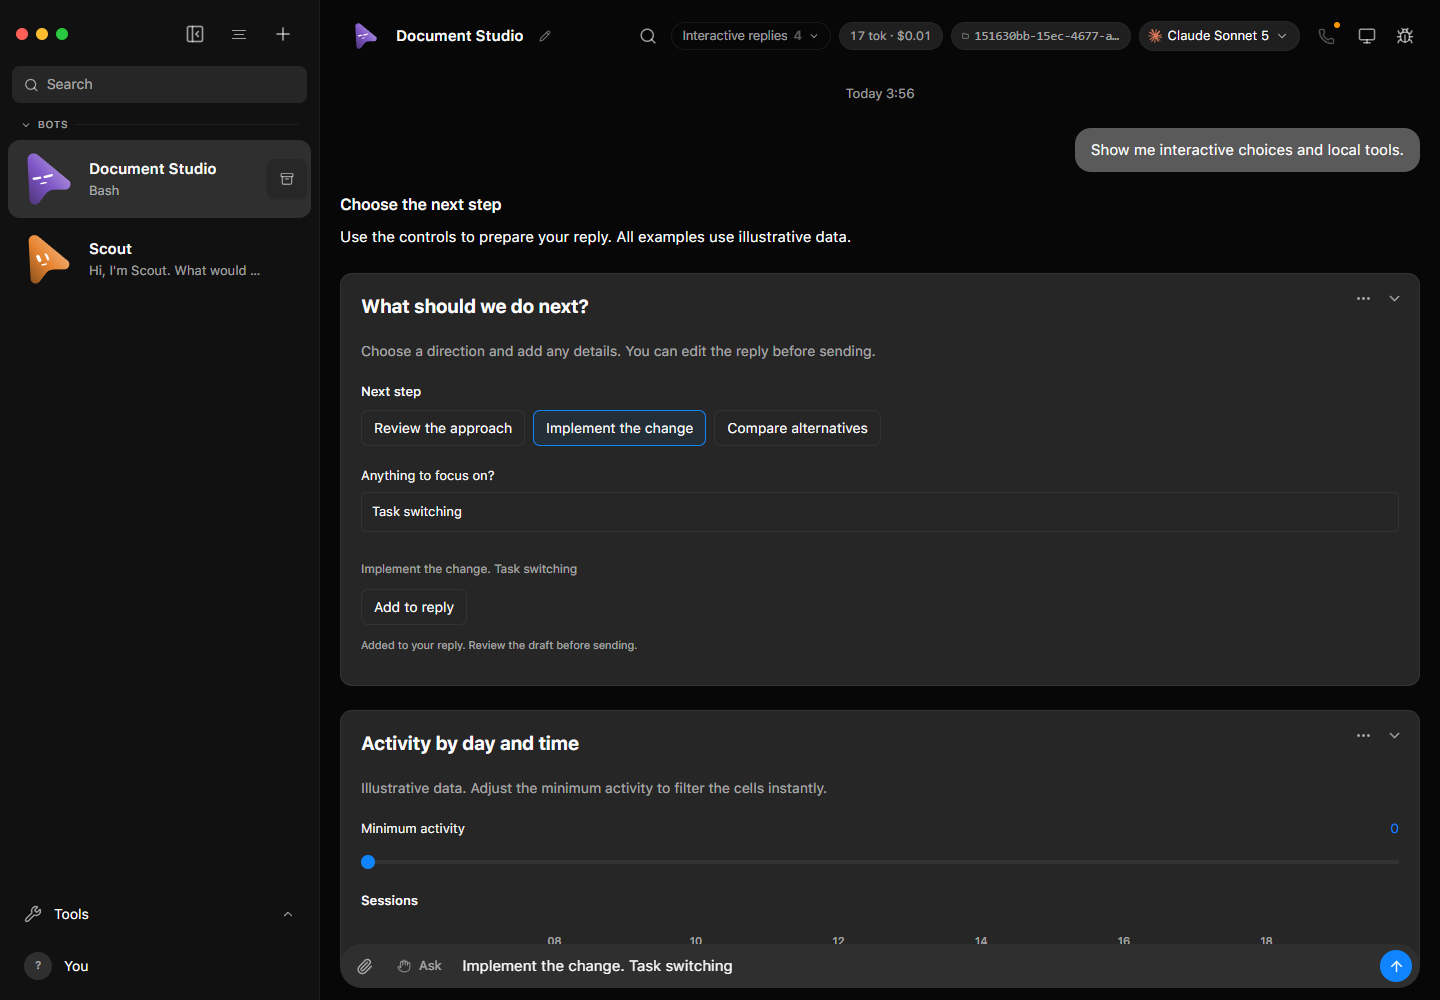
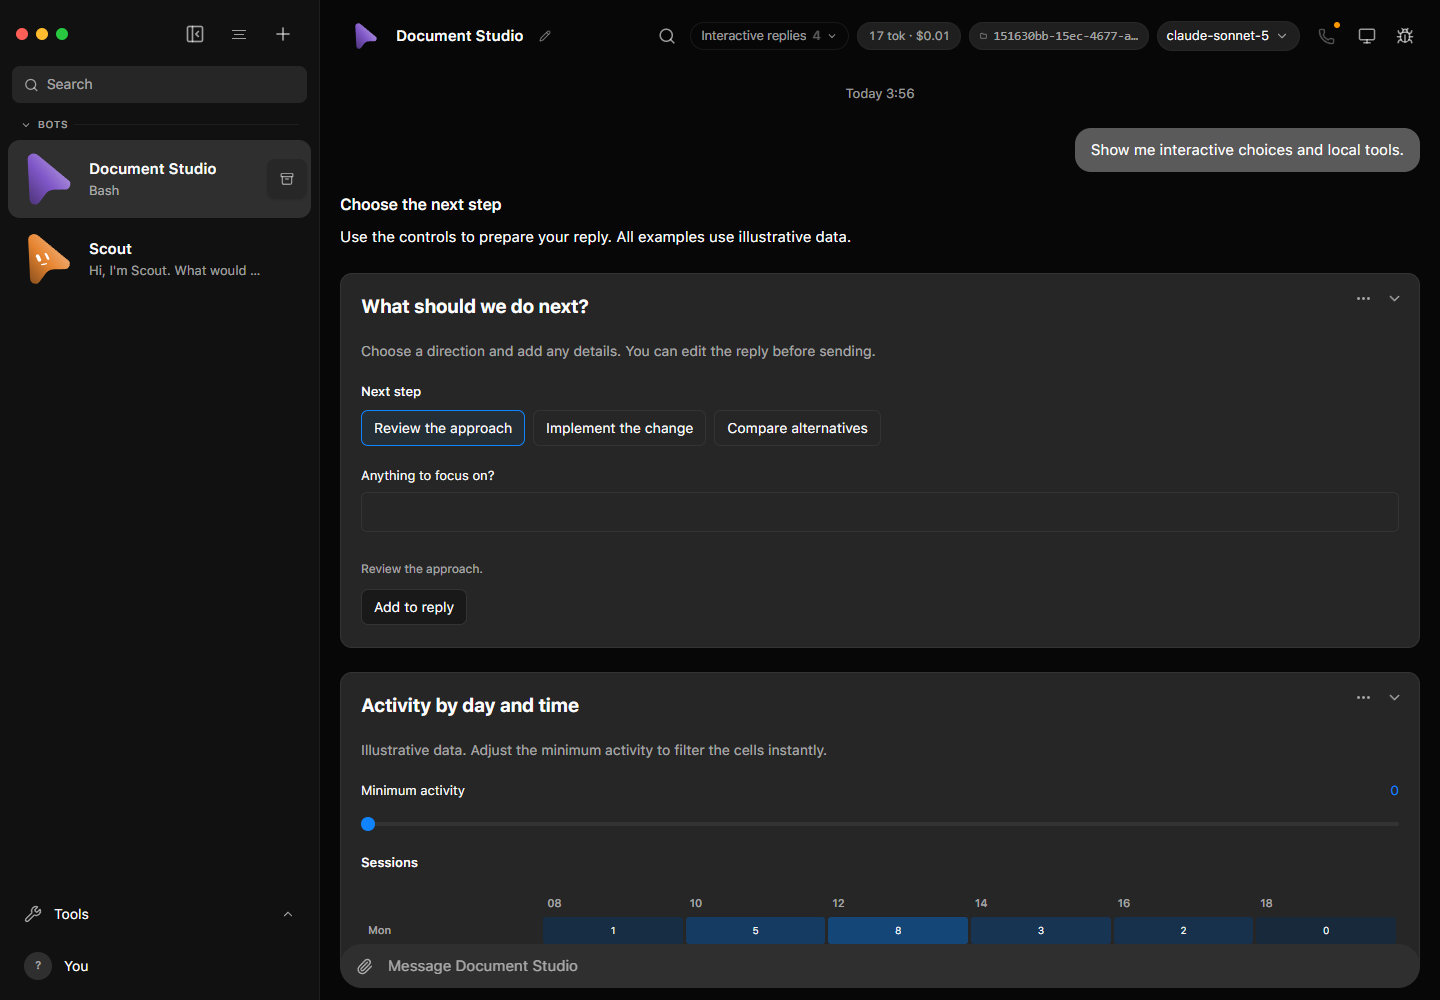
fix: sync interactive iframe color scheme

diff --git a/src/interactive/runtime.tsx b/src/interactive/runtime.tsx
@@ -531,6 +531,7 @@ function applyTheme(theme: Record<string, unknown> | undefined) {
   }
   if (typeof theme?.font === "string" && theme.font.length < 300)
     document.documentElement.style.fontFamily = theme.font;
+  if (theme?.scheme === "light" || theme?.scheme === "dark") document.documentElement.style.colorScheme = theme.scheme;
 }
 addEventListener("message", (event) => {
   if (event.source !== parent || event.data?.channel !== "omb-interactive-v1") return;

diff --git a/src/components/InteractiveReply.tsx b/src/components/InteractiveReply.tsx
@@ -44,6 +44,7 @@ function currentTheme() {
         canvas: "card",
       }).map(([key, value]) => [key, style.getPropertyValue(`--color-${value}`).trim()]),
     ),
+    scheme: style.getPropertyValue("--code-color-scheme").trim(),
     font: getComputedStyle(document.body).fontFamily,
   };
 }

diff --git a/src/interactive/runtime.css b/src/interactive/runtime.css
@@ -6,6 +6,8 @@
   --accent: #7463d3;
   --canvas: transparent;
   color-scheme: light dark;
+  scrollbar-width: thin;
+  scrollbar-color: var(--muted) var(--canvas);
   font-family:
     system-ui,
     -apple-system,

diff --git a/docs/verification/interactive-replies.md b/docs/verification/interactive-replies.md
@@ -111,6 +111,9 @@ The focused checks completed on the feature branch:
   heatmap filtering, derived totals, selectable steps, reload hydration, skin
   changes, sequential mixed controls, mobile layout, and iframe isolation for
   parent DOM, storage, bridge, and network.
+- Theme QA after the production bundle rebuild: the iframe reports `dark` for
+  midnight, `light` for atelier, and `dark` after returning to midnight; the
+  heatmap at slider 8 has four active cells.
 
 The before/after evidence uses the same fixture state. The upstream comparison
 at `http://127.0.0.1:5399` leaves the fenced source visible in the transcript;
